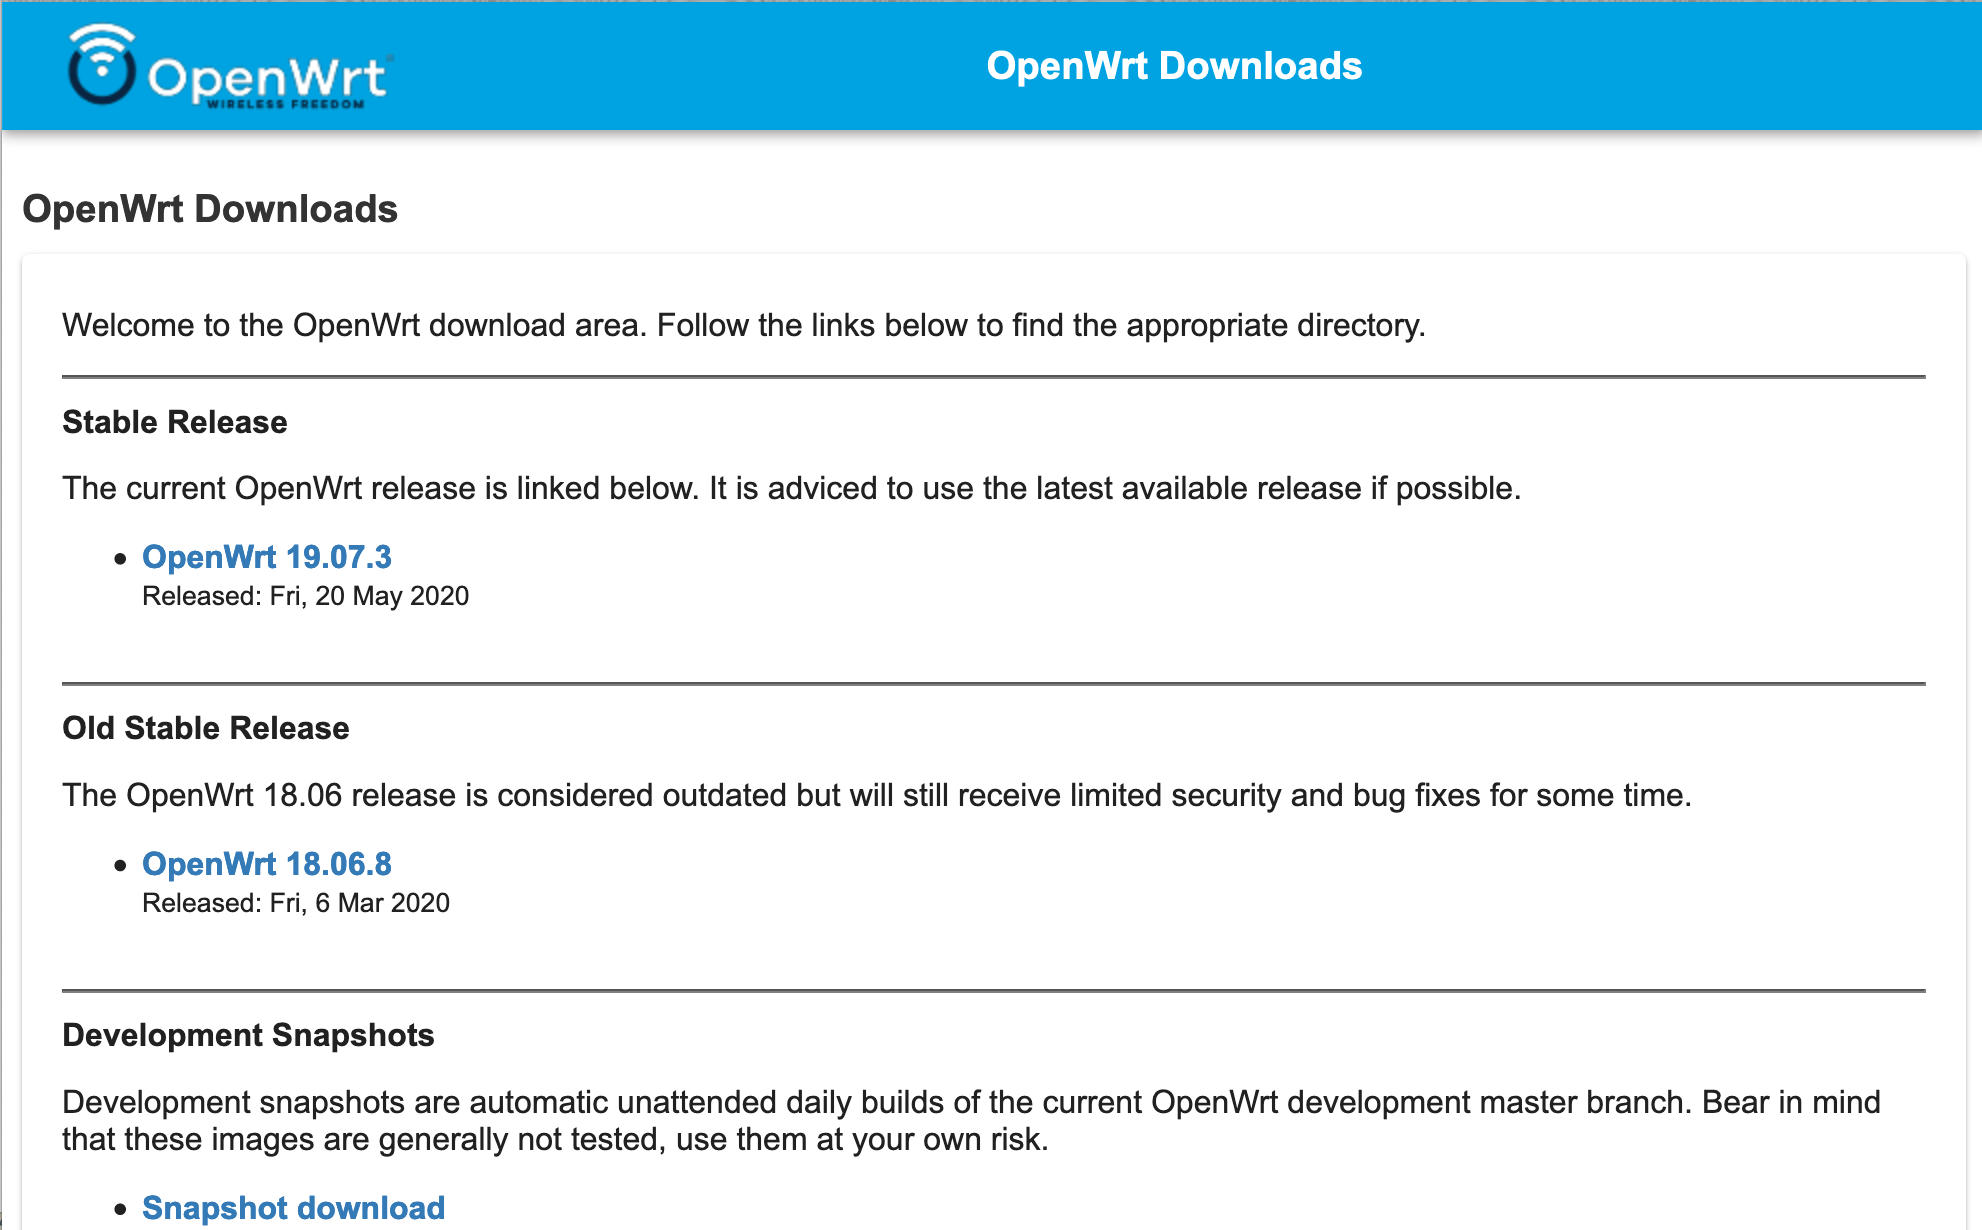
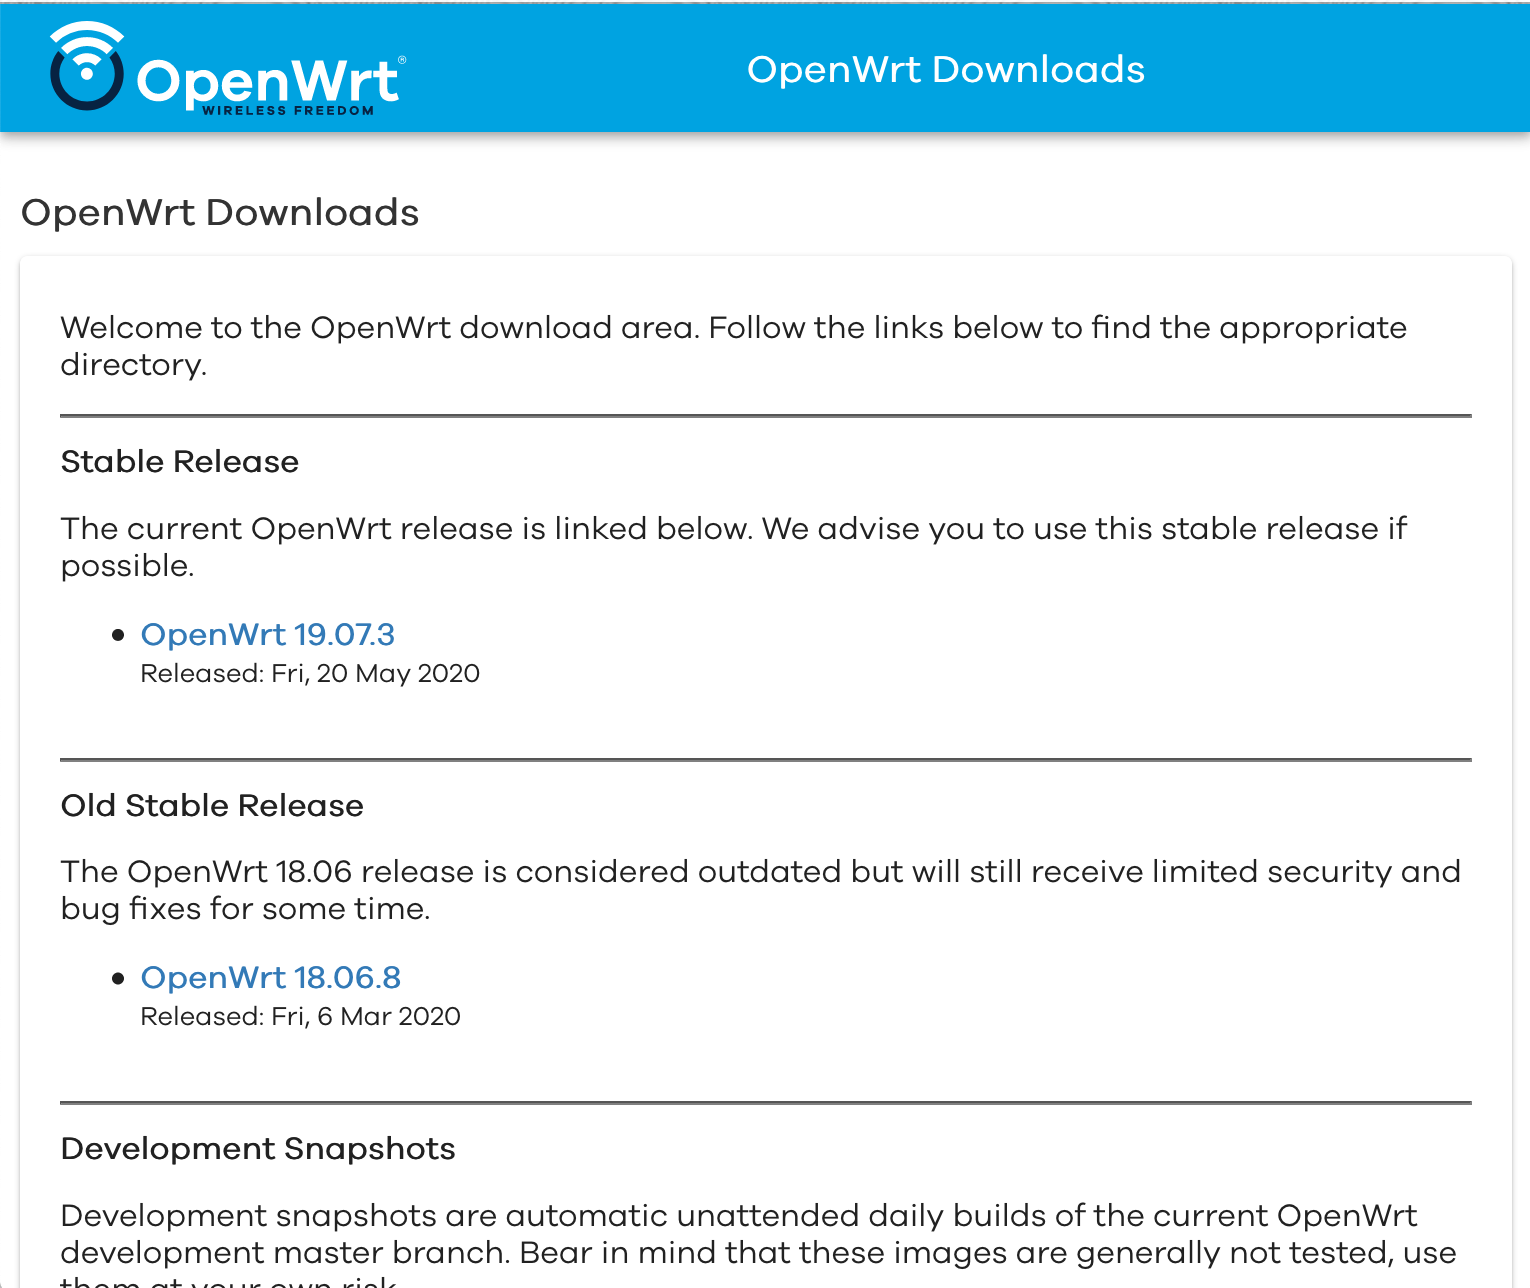
Add SVG images and .WOFF file of the GalanoGrotesque font; update screen shots

diff --git a/directory.html b/directory.html
@@ -23,20 +23,21 @@ Content-type:text/html
 <hr>
 <table>
   <tr><th class="n">File Name</th><th class="s">File Size</th><th class="d">Date</th></tr>
-  <tr><td class="n"><a href="SampleData/">SampleData</a>/</td><td class="s">-</td><td class="d">Sat Jun 13 09:02:28 2020</td></tr>
-  <tr><td class="n"><a href="css/">css</a>/</td><td class="s">-</td><td class="d">Fri Jun 12 17:40:56 2020</td></tr>
-  <tr><td class="n"><a href="doc/">doc</a>/</td><td class="s">-</td><td class="d">Sat Jun 13 07:52:56 2020</td></tr>
-  <tr><td class="n"><a href="images/">images</a>/</td><td class="s">-</td><td class="d">Fri Jun 12 22:21:16 2020</td></tr>
+  <tr><td class="n"><a href="SampleData/">SampleData</a>/</td><td class="s">-</td><td class="d">Sat Jun 13 10:07:57 2020</td></tr>
+  <tr><td class="n"><a href="css/">css</a>/</td><td class="s">-</td><td class="d">Sat Jun 13 10:07:57 2020</td></tr>
+  <tr><td class="n"><a href="doc/">doc</a>/</td><td class="s">-</td><td class="d">Sat Jun 13 10:07:57 2020</td></tr>
+  <tr><td class="n"><a href="fonts/">fonts</a>/</td><td class="s">-</td><td class="d">Sun Jul  5 13:28:41 2020</td></tr>
+  <tr><td class="n"><a href="images/">images</a>/</td><td class="s">-</td><td class="d">Sun Jul  5 13:24:31 2020</td></tr>
   <tr><td class="n"><a href="test/">test</a>/</td><td class="s">-</td><td class="d">Fri Jun 12 18:48:01 2020</td></tr>
-  <tr><td class="n"><a href="404.html">404.html</a></td><td class="s">0.8 KB</td><td class="d">Sat Jun 13 09:36:03 2020</td></tr>
-  <tr><td class="n"><a href="README.md">README.md</a></td><td class="s">2.1 KB</td><td class="d">Sat Jun 13 08:58:31 2020</td></tr>
-  <tr><td class="n"><a href="dir-index.cgi">dir-index.cgi</a></td><td class="s">13.7 KB</td><td class="d">Sat Jun 13 09:37:02 2020</td></tr>
-  <tr><td class="n"><a href="directory.html">directory.html</a></td><td class="s">0.0 KB</td><td class="d">Sat Jun 13 09:37:05 2020</td></tr>
+  <tr><td class="n"><a href="404.html">404.html</a></td><td class="s">0.8 KB</td><td class="d">Sat Jun 13 10:07:57 2020</td></tr>
+  <tr><td class="n"><a href="README.md">README.md</a></td><td class="s">3.4 KB</td><td class="d">Sun Jul  5 13:34:07 2020</td></tr>
+  <tr><td class="n"><a href="dir-index.cgi">dir-index.cgi</a></td><td class="s">13.6 KB</td><td class="d">Sat Jun 13 10:07:57 2020</td></tr>
+  <tr><td class="n"><a href="directory.html">directory.html</a></td><td class="s">0.0 KB</td><td class="d">Sun Jul  5 13:43:51 2020</td></tr>
   <tr><td class="n"><a href="nginx-snippet.conf">nginx-snippet.conf</a></td><td class="s">0.7 KB</td><td class="d">Fri Jun 12 18:48:01 2020</td></tr>
-  <tr><td class="n"><a href="openwrt.css">openwrt.css</a></td><td class="s">6.2 KB</td><td class="d">Sat Jun 13 09:32:27 2020</td></tr>
-  <tr><td class="n"><a href="output.json">output.json</a></td><td class="s">0.5 KB</td><td class="d">Sat Jun 13 09:36:03 2020</td></tr>
-  <tr><td class="n"><a href="targets.html">targets.html</a></td><td class="s">4.4 KB</td><td class="d">Sat Jun 13 09:37:05 2020</td></tr>
-  <tr><td class="n"><a href="test.sh">test.sh</a></td><td class="s">1.3 KB</td><td class="d">Sat Jun 13 00:55:51 2020</td></tr>
+  <tr><td class="n"><a href="openwrt.css">openwrt.css</a></td><td class="s">6.7 KB</td><td class="d">Sun Jul  5 13:41:58 2020</td></tr>
+  <tr><td class="n"><a href="output.json">output.json</a></td><td class="s">0.5 KB</td><td class="d">Sat Jun 13 10:07:57 2020</td></tr>
+  <tr><td class="n"><a href="targets.html">targets.html</a></td><td class="s">4.4 KB</td><td class="d">Sun Jul  5 13:43:51 2020</td></tr>
+  <tr><td class="n"><a href="test.sh">test.sh</a></td><td class="s">1.3 KB</td><td class="d">Sat Jun 13 10:07:56 2020</td></tr>
 </table>
   <footer>
     Open Source Downloads supported by <a href='https://www.keycdn.com/'>KeyCDN</a>

diff --git a/targets.html b/targets.html
@@ -38,7 +38,7 @@ Content-type:text/html
 <table>
   <tr><th class="n">Filename</th><th>sha256sum</th><th class="s">File Size</th><th class="d">Date</th></tr>
   <tr><td class="n"><a href="config.seed">config.seed</a></td><td class="sh">22a055fc3038b8741fdf324c445c0d344be0e0531004a3e768c94fb9bac33df2</td><td class="s">36.4 KB</td><td class="d">Tue Nov  5 02:49:43 2019</td></tr>
-  <tr><td class="n"><a href="download.html">download.html</a></td><td class="sh">-</td><td class="s">5.1 KB</td><td class="d">Sat Jun 13 09:03:08 2020</td></tr>
+  <tr><td class="n"><a href="download.html">download.html</a></td><td class="sh">-</td><td class="s">5.1 KB</td><td class="d">Sat Jun 13 10:07:57 2020</td></tr>
   <tr><td class="n"><a href="kernel-debug.tar.bz2">kernel-debug.tar.bz2</a></td><td class="sh">-</td><td class="s">0.0 KB</td><td class="d">Tue Nov  5 02:49:43 2019</td></tr>
   <tr><td class="n"><a href="lede-17.01.0-r3205-59508e3-ar71xx-generic.manifest">lede-17.01.0-r3205-59508e3-ar71xx-generic.manifest</a></td><td class="sh">afc9e17b58e687cba5e79c7216cfad35bdd6bc474ac90742e8394f2d1355eabf</td><td class="s">2.5 KB</td><td class="d">Tue Nov  5 02:49:43 2019</td></tr>
   <tr><td class="n"><a href="lede-imagebuilder-17.01.0-ar71xx-generic.Linux-x86_64.tar.xz">lede-imagebuilder-17.01.0-ar71xx-generic.Linux-x86_64.tar.xz</a></td><td class="sh">d1704cadd846dcb78dc64d7e1f7641ddc3c1450cfe477e8ea29bef87fafbe88c</td><td class="s">0.0 KB</td><td class="d">Tue Nov  5 02:49:43 2019</td></tr>

diff --git a/openwrt.css b/openwrt.css
@@ -1,8 +1,27 @@
-/* merged css from main downloads.openwrt.org page */
-/* and https://mwarning.github.io/yet_another_firmware_selector/ */
+/* merged css from: 
+- canonical CSS file at: https://github.com/openwrt/luci/blob/master/themes/luci-theme-openwrt-2020/htdocs/luci-static/openwrt2020/cascade.css
+- main downloads.openwrt.org page 
+- and https://mwarning.github.io/yet_another_firmware_selector/ 
+*/
+
+:root {
+  --main-bright-color: #00A3E1;
+  --main-dark-color: #002B49;
+  --secondary-bright-color: #FFFFFF;
+  --secondary-dark-color: #212322;
+  --danger-color: #CC1111;
+  --warning-color: #CC8800;
+  --regular-font: "GalanoGrotesqueW00-Regular";
+  --base-font-size: 16px;
+}
+
+@font-face {
+  font-family: "GalanoGrotesqueW00-Regular";
+  src: url("fonts/GalanoGrotesqueW00-Regular.woff2") format("woff2");
+}
 
 body {
-    font-family: "Arial", sans-serif;
+    font-family: "GalanoGrotesqueW00-Regular", sans-serif;
     margin: 0px;
     padding: 0px;
     color: #333;

diff --git a/index.html b/index.html
@@ -9,7 +9,7 @@
 
 <header>
       <div>
-        <img src="images/logo.png" alt="Logo">
+        <img src="images/openwrt-logo-white-and-dark-blue.svg" alt="Logo" style="width:180px;">
         <div style="flex-grow: 1; text-align: center;">
           <h1>OpenWrt Downloads</h1>
         </div>
@@ -26,8 +26,8 @@
 
 	<h2>Stable Release</h2>
 	<p>
-		The current OpenWrt release is linked below. It is adviced to use the latest
-		available release if possible.
+		The current OpenWrt release is linked below. 
+		We advise you to use this stable release if possible.
 	</p>
 	<ul>
 		<li>

diff --git a/css/index.css b/css/index.css
@@ -1,7 +1,7 @@
 /* copied from https://mwarning.github.io/yet_another_firmware_selector/ */
 
 body {
-  font-family: "Arial", sans-serif;
+  /*font-family: "Arial", sans-serif;*/
   margin: 0px;
 }
 

diff --git a/README.md b/README.md
@@ -48,6 +48,14 @@ But not this week.)
 
 Paste the HTML files into [W3C Markup Validation Service](https://validator.w3.org/#validate_by_input) to verify that the HTML output is good.
 
+## Provenance of Assorted Assets
+
+* SVG images of OpenWrt logo (three color variations) from [https://gist.github.com/jow-/503002651aa3ee3e8803b5ad29abf7ca#file-openwrt-logo-white-and-dark-blue-svg](https://gist.github.com/jow-/503002651aa3ee3e8803b5ad29abf7ca#file-openwrt-logo-white-and-dark-blue-svg)
+* GalanoGrotesque.woff comes from OpenWrt repo: [https://github.com/openwrt/luci/blob/master/themes/luci-theme-openwrt-2020/htdocs/luci-static/openwrt2020/GalanoGrotesqueW00-Regular.woff2
+](https://github.com/openwrt/luci/blob/master/themes/luci-theme-openwrt-2020/htdocs/luci-static/openwrt2020/GalanoGrotesqueW00-Regular.woff2
+)
+* Canonical CSS file for OpenWrt theme: [https://github.com/openwrt/luci/blob/master/themes/luci-theme-openwrt-2020/htdocs/luci-static/openwrt2020/cascade.css](https://github.com/openwrt/luci/blob/master/themes/luci-theme-openwrt-2020/htdocs/luci-static/openwrt2020/cascade.css)
+
 ## Screen Shots
 
 **OpenWrt Downloads Home Page**<br />
@@ -57,5 +65,4 @@ Paste the HTML files into [W3C Markup Validation Service](https://validator.w3.o
 ![Formatted OpenWrt Firmware listing](doc/Targets-1000.png)
 
 **OpenWrt "Ordinary" Directory**<br />
-![Formatted OpenWrt directory listing](doc/FormattedDirectory.png)
-
+![Formatted OpenWrt directory listing](doc/formatteddirectory-1000.png)
